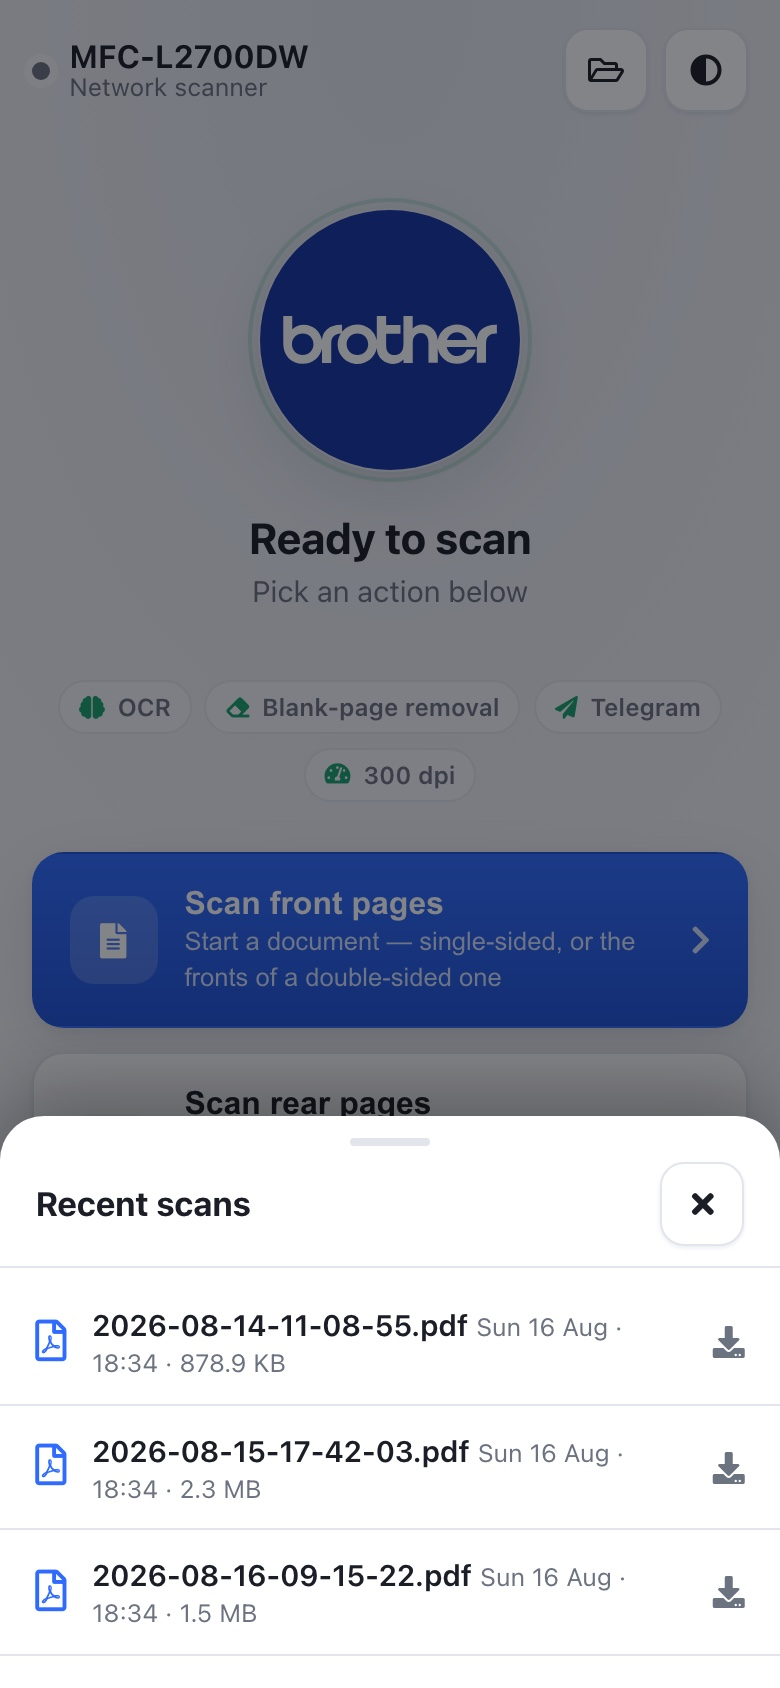
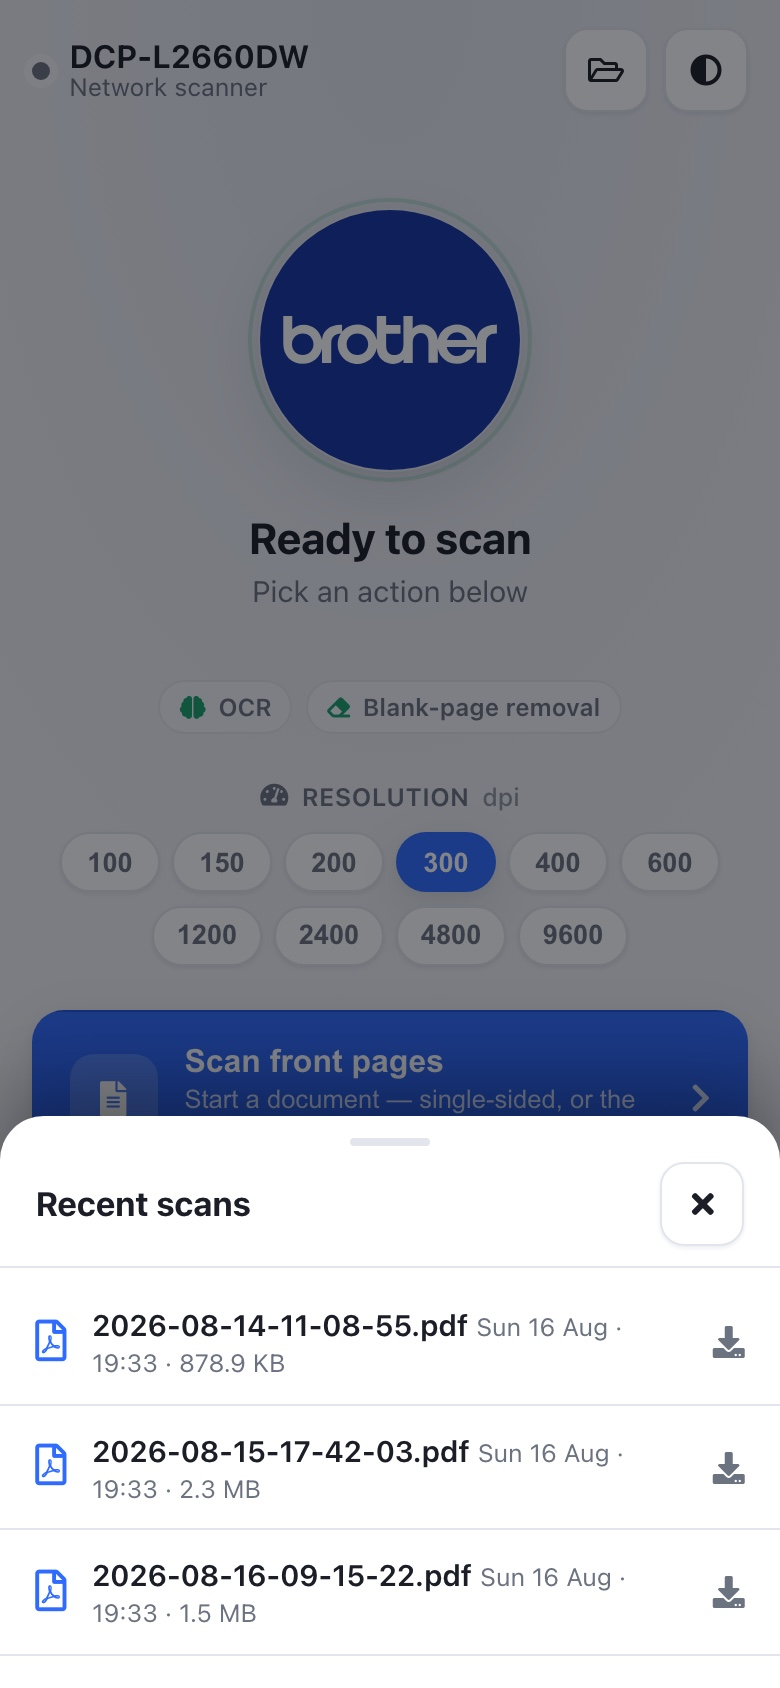
Resolution selection

diff --git a/html/index.php b/html/index.php
@@ -221,6 +221,40 @@
         }
         .chip i { font-size: .72rem; color: var(--ok); }
 
+        /* ---- Resolution selector ---- */
+        .reso { margin-top: 1.3rem; }
+        .reso-head {
+            display: flex; align-items: center; justify-content: center; gap: .4rem;
+            font-size: .78rem; font-weight: 600; letter-spacing: .02em;
+            color: var(--text-dim); text-transform: uppercase;
+            margin: 0 0 .6rem;
+        }
+        .reso-head i { color: var(--text-dim); font-size: .78rem; }
+        .reso-unit { text-transform: none; letter-spacing: 0; opacity: .7; font-weight: 500; }
+        .reso-opts { display: flex; flex-wrap: wrap; gap: .4rem; justify-content: center; }
+        .reso-pill {
+            flex: 0 0 auto;
+            appearance: none; cursor: pointer;
+            min-width: 3.1rem;
+            border: 1px solid var(--border);
+            background: var(--surface);
+            color: var(--text-dim);
+            border-radius: 999px;
+            padding: .42rem .7rem;
+            font-size: .85rem; font-weight: 650;
+            box-shadow: var(--shadow-sm);
+            transition: transform .12s, background .2s, border-color .2s, color .2s;
+            -webkit-tap-highlight-color: transparent;
+        }
+        .reso-pill:hover { border-color: var(--primary); }
+        .reso-pill:active { transform: scale(.94); }
+        .reso-pill.active {
+            background: var(--primary);
+            border-color: transparent;
+            color: var(--primary-contrast);
+            box-shadow: var(--shadow);
+        }
+
         /* ---- Action buttons ---- */
         .actions {
             display: flex; flex-direction: column; gap: .7rem;
@@ -389,12 +423,20 @@
         if ($FEATURES['ftp'])           { $activeFeatures[] = array('fa-upload', 'FTP upload'); }
         if ($FEATURES['telegram'])      { $activeFeatures[] = array('fa-paper-plane', 'Telegram'); }
         if ($FEATURES['jpeg'])          { $activeFeatures[] = array('fa-file-image', 'JPEG compression'); }
-        $activeFeatures[] = array('fa-tachometer-alt', $RESOLUTION . ' dpi');
         ?>
         <div class="chips">
             <?php foreach ($activeFeatures as $f) { ?>
                 <span class="chip"><i class="fas <?php echo $f[0]; ?>"></i><?php echo htmlspecialchars($f[1]); ?></span>
             <?php } ?>
+        </div>
+
+        <div class="reso">
+            <div class="reso-head"><i class="fas fa-tachometer-alt"></i> Resolution <span class="reso-unit">dpi</span></div>
+            <div class="reso-opts" id="resoOpts" data-default="<?php echo htmlspecialchars($RESOLUTION); ?>">
+                <?php foreach ($RESOLUTIONS as $r) { ?>
+                    <button type="button" class="reso-pill" data-dpi="<?php echo htmlspecialchars($r); ?>"><?php echo htmlspecialchars($r); ?></button>
+                <?php } ?>
+            </div>
         </div>
 
         <div class="actions">
@@ -467,6 +509,29 @@
                 toastTimer = setTimeout(function () { toastEl.classList.remove("show"); }, 2200);
             }
 
+            /* ---------- Resolution selector ---------- */
+            var resoOpts = document.getElementById("resoOpts");
+            var pills = resoOpts ? Array.prototype.slice.call(resoOpts.querySelectorAll(".reso-pill")) : [];
+            var available = pills.map(function (b) { return b.getAttribute("data-dpi"); });
+            var defaultReso = resoOpts ? resoOpts.getAttribute("data-default") : "300";
+            var selectedReso = localStorage.getItem("scanner-resolution");
+            if (available.indexOf(selectedReso) === -1) {
+                selectedReso = available.indexOf(defaultReso) !== -1 ? defaultReso : (available[0] || "300");
+            }
+            function markReso() {
+                pills.forEach(function (b) { b.classList.toggle("active", b.getAttribute("data-dpi") === selectedReso); });
+            }
+            markReso();
+            if (resoOpts) {
+                resoOpts.addEventListener("click", function (e) {
+                    var b = e.target.closest(".reso-pill");
+                    if (!b) return;
+                    selectedReso = b.getAttribute("data-dpi");
+                    localStorage.setItem("scanner-resolution", selectedReso);
+                    markReso();
+                });
+            }
+
             /* ---------- Status polling ---------- */
             var STATES = {
                 idle:    { cls: "state-idle",    icon: "far fa-smile",           title: "Ready to scan",       sub: "Pick an action below" },
@@ -517,7 +582,7 @@
                     if (btn.classList.contains("busy")) return;
                     var target = btn.getAttribute("data-trigger");
                     var label = btn.querySelector(".b-label").textContent;
-                    var body = new URLSearchParams({ target: target });
+                    var body = new URLSearchParams({ target: target, resolution: selectedReso });
                     fetch("/scan.php", { method: "POST", body: body })
                         .then(function () { toast(label + " started"); })
                         .catch(function () { toast("Could not reach scanner"); });

diff --git a/html/settings.php b/html/settings.php
@@ -47,6 +47,25 @@ $MODEL      = env_str('MODEL', 'Scanner');
 $NAME       = env_str('NAME', 'Scanner');
 $RESOLUTION = env_str('RESOLUTION', '300');
 
+// Resolutions offered in the GUI selector. runScanner.sh detects these from the
+// scanner (scanimage -A) and writes a CSV; validate to positive integers, fall
+// back to a sane list, and make sure the current default is always selectable.
+$RESOLUTIONS = array();
+foreach (explode(',', env_str('RESOLUTIONS', '')) as $r) {
+    $r = trim($r);
+    if ($r !== '' && ctype_digit($r)) {
+        $RESOLUTIONS[] = $r;
+    }
+}
+if (count($RESOLUTIONS) < 2) {
+    $RESOLUTIONS = array('100', '200', '300', '400', '600');
+}
+if (!in_array($RESOLUTION, $RESOLUTIONS, true)) {
+    $RESOLUTIONS[] = $RESOLUTION;
+}
+$RESOLUTIONS = array_values(array_unique($RESOLUTIONS));
+sort($RESOLUTIONS, SORT_NUMERIC);
+
 /**
  * Post-processing capabilities that are actually configured. Surfaced in the
  * GUI as read-only "chips" so the user can see what will happen to a scan —

diff --git a/html/scan.php b/html/scan.php
@@ -15,6 +15,17 @@ if (empty($target)) {
         header($_SERVER["SERVER_PROTOCOL"] . " 400 Bad Request");
         die("Error: No scanning function selected (try append: ?target=<file|email|image|ocr>)");
 }
+
+// Optional per-scan resolution. Validated strictly against the scanner's
+// supported list before being handed to the scan script via a preserved env var
+// (sudoers: Defaults env_keep += "GUI_RESOLUTION"). Never interpolated into the
+// command line, so it cannot be used for injection.
+$resolution = isset($_POST['resolution']) ? $_POST['resolution']
+            : (isset($_GET['resolution']) ? $_GET['resolution'] : '');
+if ($resolution !== '' && in_array((string) $resolution, $RESOLUTIONS, true)) {
+        putenv('GUI_RESOLUTION=' . $resolution);
+}
+
 if (in_array($target, $SCAN_TARGETS, true)) {
         if ($_SERVER['REQUEST_METHOD'] == 'POST') {
                 //return immediately

diff --git a/README.md b/README.md
@@ -102,7 +102,8 @@ You can configure the tool via environment variables:
 | NAME  | mandatory | Arbitrary (avoid spaces) name to give your scanner. Displayed on scanner, if multiple servers are running. |
 | MODEL  | mandatory | Model of your scanner (e.g., MFC-L2700DW) |
 | IPADDRESS | mandatory | IP Address of your scanner |
-| RESOLUTION | optional | DPI resolution of scan, refer to capabilities of printer on startup |
+| RESOLUTION | optional | Default DPI resolution of scan (default: 300). The GUI shows a resolution selector, pre-selected to this value; the chosen value applies per scan. |
+| RESOLUTIONS | optional | Comma-separated list of DPI values to offer in the GUI selector. Normally auto-detected from the scanner (`scanimage -A`); set this only to override. |
 | REMOVE_BLANK_THRESHOLD | optional | Percentage of content in page until which a page is considered blank. A good default is 0.3. Blank pages are removed if this variable is defined |
 | REMOVE_ORIGINAL_AFTER_OCR | optional | Deletes the original scan, once OCR file is saved (default: false) |
 | FTP_USER | optional | Username of an FTP(S) server to upload the completed scan to (see below) |
